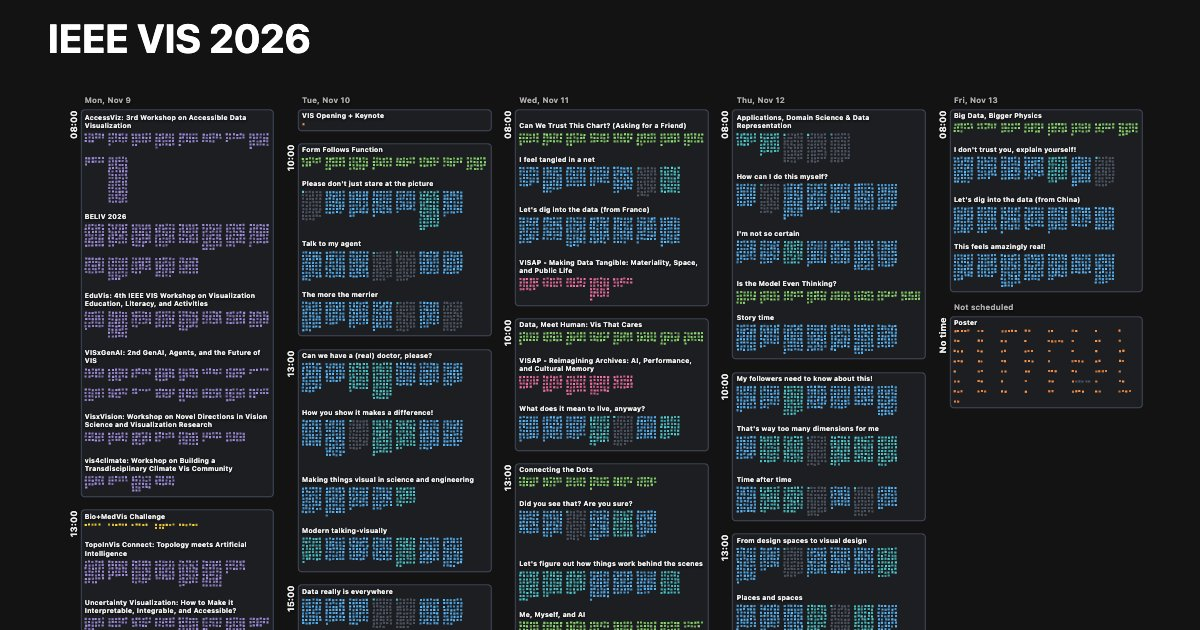
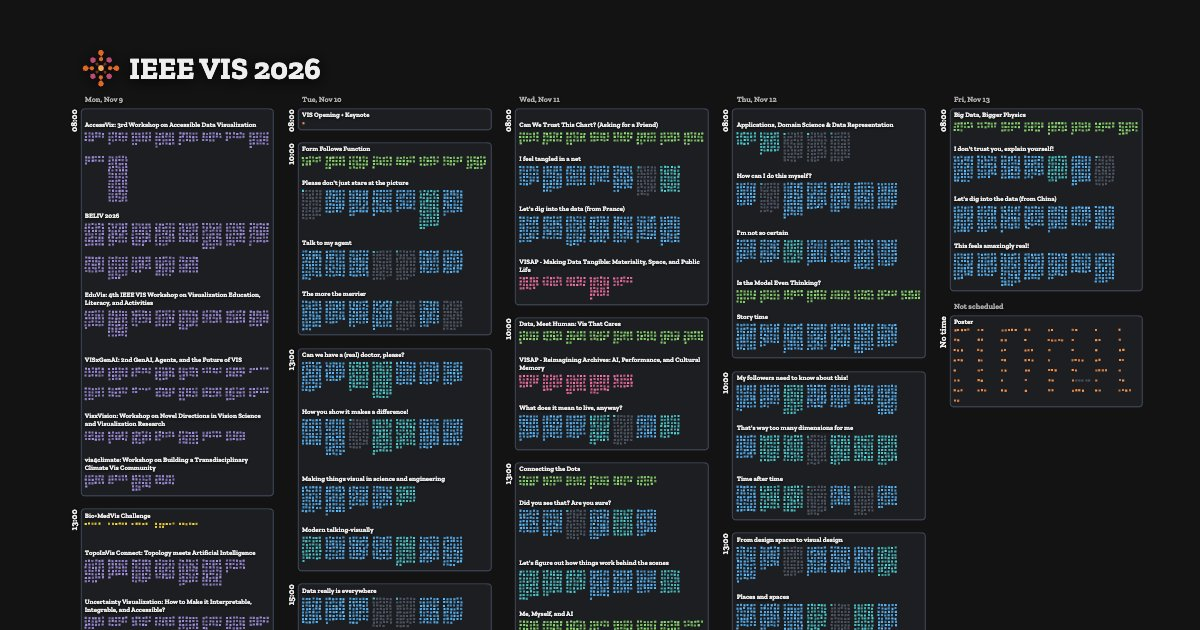
VIS map: a title above the days, in IEEE VIS's own fonts
The map is titled with IEEE VIS's icon and "IEEE VIS 2026", painted on the
map above the days, and the share card shows it in place of a title of its
own. The page opens with room above for the legend, which hid the title and
Monday's name.

The shell's fonts become two settings, for text and for headings, which a
text's stylesheet may set; VIS sets Fira Sans and Zilla Slab, as its site
does. The VIS card serves the packed stand-in texts, as the other VIS
states do.

Changed region(s): [[0.0308, 0.0302, 0.9558, 1.0], [0.8942, 0.573, 0.925, 0.6333], [0.8325, 0.573, 0.8633, 0.6032]]

diff --git a/test/layout/shareCards.spec.ts b/test/layout/shareCards.spec.ts
@@ -3,7 +3,7 @@
 import { readFileSync, writeFileSync } from 'node:fs';
 import { test } from '../browser/fakeMap.ts';
 import { desktopOnly, hold, openMap } from '../browser/page.ts';
-import { standInTexts } from './visTexts.ts';
+import { standInTextsFile } from './visTexts.ts';
 import { computeLayout as computeTanakhLayout, getLayoutBounds } from '@torahmap/tanakh/layout.ts';
 import { computeLayout as computeVisLayout, programBox } from '@torahmap/ieeevis/layout.ts';
 import { IEEEVIS_PATH } from '@torahmap/ieeevis/page.ts';
@@ -14,18 +14,14 @@ import {
 } from '@torahmap/ieeevis/data.ts';
 
 const CARD = { width: 1200, height: 630 };
-/** Screen pixels left clear around the map, and above it for a title. */
+/** Screen pixels left clear around the map. */
 const MARGIN = 48;
-const TITLE_BAND = 96;
 
 // The canvas leaves room for the panel and measures itself once at startup,
 // so the panel has to be gone before the page loads, not after.
 const HIDE_UI =
   '<style>#panel,#menu-toggle,#map-legend,#zoom-controls,#popup{display:none!important}' +
   ':root{--map-left:0px!important}#canvas{width:100vw!important;height:100vh!important}</style>';
-
-const titleHtml = (text: string): string =>
-  `<div style="position:fixed;left:${MARGIN}px;top:14px;z-index:9;color:#fff;font:700 40px system-ui,sans-serif">${text}</div>`;
 
 const readJson = (file: string): unknown => JSON.parse(readFileSync(`public/data/${file}`, 'utf8'));
 
@@ -51,16 +47,14 @@ test.describe('share cards', () => {
 
   const draw = async (
     page: import('@playwright/test').Page,
-    { path, link, title, out }: { path: string; link: string; title?: string; out: string },
+    { path, link, out }: { path: string; link: string; out: string },
   ) => {
     desktopOnly('the card is drawn once, at its own size');
     await page.route(
       (url) => url.pathname === path,
       async (route) => {
         const response = await route.fetch();
-        const html = (await response.text())
-          .replace('</head>', HIDE_UI + '</head>')
-          .replace('</body>', (title ? titleHtml(title) : '') + '</body>');
+        const html = (await response.text()).replace('</head>', HIDE_UI + '</head>');
         await route.fulfill({ response, body: html });
       },
     );
@@ -79,12 +73,11 @@ test.describe('share cards', () => {
   });
 
   test('the VIS card shows the days across and the top of each', async ({ page }) => {
-    (await hold(page, [VIS_TEXTS], JSON.stringify(standInTexts())))();
+    (await hold(page, [VIS_TEXTS], standInTextsFile()))();
     const laid = computeVisLayout(readJson(VIS_STRUCTURE) as never);
     await draw(page, {
       path: IEEEVIS_PATH,
-      link: `overlay=kinds&${cardCamera(programBox(laid), TITLE_BAND, false)}`,
-      title: 'IEEE VIS 2026',
+      link: `overlay=kinds&${cardCamera(programBox(laid), MARGIN, false)}`,
       out: 'public/ieeevis-og-image.jpg',
     });
   });

diff --git a/apps/ieeevis/src/text.ts b/apps/ieeevis/src/text.ts
@@ -18,6 +18,8 @@ import { computeLayout, DAY_LABEL_SIZE, programBox, TIME_STRIP, type PieceItem }
 import { KINDS_ID } from './overlays/kinds.ts';
 import { VIS_OVERLAYS, visOverlayParams } from './overlays/index.ts';
 import { configureSearch, squareBody, visSearch } from './search.ts';
+import { createMapTitle } from './mapTitle.ts';
+import './ieeevis.css';
 import { ieeevisSite } from './site.ts';
 
 const PANEL_TINT = [150, 170, 220] as const;
@@ -26,6 +28,8 @@ const PANEL_EDGE_OPACITY = 0.3;
 const SESSION_TAB = { fontSize: 12, above: 20, inset: 0, minPx: 3.5, wrap: true };
 // A slot's time keeps a size a reader can make out however far the map is zoomed out.
 const TIME_LABEL = { fontSize: DAY_LABEL_SIZE.fontSize, minPx: 9, gap: 4 };
+// Screen pixels clear above the program as it opens: the legend reaches 58 down on a wide screen.
+const LEGEND_CLEARANCE = 70;
 const NO_TEXT = 'No text yet.';
 
 const WHOLE_MAP: Story = {
@@ -69,7 +73,14 @@ export const ieeevisText: MapText<PieceItem, TermSettings> = {
       items: laid.items,
 
       startCamera(viewport) {
-        return cameraToFit(programBox(laid), viewport.width, viewport.height, LINK_KEYS.zoom);
+        return cameraToFit(
+          programBox(laid),
+          viewport.width,
+          viewport.height,
+          LINK_KEYS.zoom,
+          undefined,
+          LEGEND_CLEARANCE,
+        );
       },
 
       baseColor,
@@ -81,7 +92,7 @@ export const ieeevisText: MapText<PieceItem, TermSettings> = {
           const time = document.createElement('div');
           time.textContent = box.time;
           time.style.cssText =
-            'position:absolute;top:0;color:#eee;font:700 1em system-ui,sans-serif;' +
+            'position:absolute;top:0;color:#eee;font:700 1em var(--heading-font);' +
             `white-space:nowrap;line-height:${SECTION_LABEL_LINE_EM}em;` +
             'text-shadow:0 1px 3px rgba(0,0,0,0.8);' +
             'transform-origin:0 0;transform:rotate(-90deg) translateX(-100%);';
@@ -91,6 +102,7 @@ export const ieeevisText: MapText<PieceItem, TermSettings> = {
         const panelLayer = document.createElement('div');
         panelLayer.append(...panels.map((p) => p.el));
         container.appendChild(panelLayer);
+        const moveTitle = createMapTitle(WHOLE_MAP.data.title, container);
         const moveLabels = createMapLabels(laid.books, container, {
           sectionNames: Object.fromEntries(
             laid.books.map((b) => [b.section, { he: '', en: b.section }]),
@@ -117,6 +129,7 @@ export const ieeevisText: MapText<PieceItem, TermSettings> = {
             time.style.opacity = fits ? '' : '0';
           }
           moveLabels(pan, zoom);
+          moveTitle(pan, zoom);
         };
       },
 

diff --git a/apps/ieeevis/src/mapTitle.ts b/apps/ieeevis/src/mapTitle.ts
@@ -1,0 +1,46 @@
+// The map's title, painted on the map above the days: it grows and moves exactly as the squares do.
+
+import { TITLE_CORNER, TITLE_HEIGHT } from './layout.ts';
+import iconUrl from './vis2026_icon.svg?url';
+
+const SVG = 'http://www.w3.org/2000/svg';
+
+function svgElement(name: string, attributes: Record<string, string>): SVGElement {
+  const el = document.createElementNS(SVG, name);
+  for (const [key, value] of Object.entries(attributes)) el.setAttribute(key, value);
+  return el;
+}
+
+/** Draws `name` beside IEEE VIS's icon into `container`; the function returned moves it with the map. */
+export function createMapTitle(
+  name: string,
+  container: HTMLElement,
+): (offset: { x: number; y: number }, zoom: number) => void {
+  // The viewBox holds the icon and sets the scale; the name runs on past it.
+  const svg = svgElement('svg', {
+    viewBox: '0 0 100 100',
+    overflow: 'visible',
+    role: 'img',
+    'aria-label': name,
+  });
+  svg.style.cssText = 'position:absolute;filter:drop-shadow(0 2px 7px #000)';
+  const text = svgElement('text', {
+    x: '122',
+    y: '76',
+    'font-size': '76',
+    'font-weight': '700',
+    fill: '#eee',
+  });
+  text.style.fontFamily = 'var(--heading-font)';
+  text.textContent = name;
+  svg.append(svgElement('image', { href: iconUrl, width: '100', height: '100' }), text);
+  container.append(svg);
+
+  return (offset, zoom) => {
+    const size = String(TITLE_HEIGHT * zoom);
+    svg.setAttribute('width', size);
+    svg.setAttribute('height', size);
+    svg.style.left = `${(TITLE_CORNER.x + offset.x) * zoom}px`;
+    svg.style.top = `${(TITLE_CORNER.y + offset.y) * zoom}px`;
+  };
+}

diff --git a/packages/engine/src/camera.ts b/packages/engine/src/camera.ts
@@ -115,7 +115,7 @@ export const FIT_MARGIN = 16;
 
 /**
  * The camera that centres `box` on a `width` × `height` canvas, at the largest
- * zoom that fits it inside the margins, unless `zoom` is given.
+ * zoom that fits it inside the margins, unless `zoom` is given, with `top` pixels clear above it.
  */
 export function cameraToFit(
   box: WorldBox,
@@ -123,15 +123,16 @@ export function cameraToFit(
   height: number,
   range: ZoomRange,
   zoom?: number,
+  top = LABEL_MARGIN,
 ): Camera {
   const boxWidth = box.maxX - box.minX;
   const boxHeight = box.maxY - box.minY;
   const fitted = Math.min(
     (width - 2 * FIT_MARGIN) / boxWidth,
-    (height - FIT_MARGIN - LABEL_MARGIN) / boxHeight,
+    (height - FIT_MARGIN - top) / boxHeight,
   );
   const z = clampZoom(zoom ?? fitted, range);
-  const centreY = LABEL_MARGIN + (height - FIT_MARGIN - LABEL_MARGIN) / 2;
+  const centreY = top + (height - FIT_MARGIN - top) / 2;
   return {
     x: box.minX + boxWidth / 2,
     y: box.minY + boxHeight / 2 - (centreY - height / 2) / z,

diff --git a/apps/ieeevis/src/layout.ts b/apps/ieeevis/src/layout.ts
@@ -65,11 +65,19 @@ const nameLines = (name: string): number => Math.max(1, Math.ceil(name.length / 
 
 export const DAY_LABEL_SIZE = { fontSize: 14, gapEm: 0.5 };
 
-/** The whole program with its day labels, time strip and panels' padding: the box the map opens fitted to. */
+// The map's title stands this tall above the days' names, this far clear of them.
+export const TITLE_HEIGHT = 12 * SQUARE_SIZE;
+const TITLE_GAP = 2 * SQUARE_SIZE;
+export const TITLE_CORNER = {
+  x: -PANEL_PAD,
+  y: -sectionLabelReach(DAY_LABEL_SIZE) - TITLE_GAP - TITLE_HEIGHT,
+};
+
+/** The whole program with its title, day labels, time strip and panels' padding: the box the map opens fitted to. */
 export function programBox({ bounds }: Layout) {
   return {
     minX: -PANEL_PAD - TIME_STRIP,
-    minY: -sectionLabelReach(DAY_LABEL_SIZE),
+    minY: TITLE_CORNER.y,
     maxX: bounds.width + PANEL_PAD,
     maxY: bounds.height + PANEL_PAD,
   };

diff --git a/packages/shell/src/mapLabels.ts b/packages/shell/src/mapLabels.ts
@@ -138,7 +138,7 @@ function bookLabel(book: BookBox): HTMLDivElement {
   const enSpan = document.createElement('span');
   enSpan.className = 'book-label-en';
   enSpan.textContent = ` ${book.name}`;
-  enSpan.style.cssText = 'font-family:system-ui,sans-serif;';
+  enSpan.style.fontFamily = 'var(--heading-font)';
   label.appendChild(enSpan);
   return label;
 }
@@ -165,7 +165,7 @@ function sectionLabel(
   label.appendChild(hebrewSpan(name?.he ?? section, 'section-label-he'));
   const enSpan = document.createElement('span');
   enSpan.className = 'section-label-en';
-  enSpan.style.fontFamily = 'system-ui,sans-serif';
+  enSpan.style.fontFamily = 'var(--heading-font)';
   enSpan.textContent = ` ${name?.en ?? ''}`;
   label.appendChild(enSpan);
   return label;

diff --git a/test/layout/visTexts.ts b/test/layout/visTexts.ts
@@ -4,6 +4,7 @@ import { readFileSync } from 'node:fs';
 import type { Structure } from '@torahmap/ieeevis/data.ts';
 import { computeLayout } from '@torahmap/ieeevis/layout.ts';
 import { isPlaceholder } from '@torahmap/ieeevis/baseColor.ts';
+import { pack } from '../../scripts/ieeevis/pack.ts';
 
 const STRUCTURE = new URL('../../public/data/ieeevis/structure.json', import.meta.url);
 const WORDS = ['chart', 'colour', 'axis', 'glyph', 'mark', 'scale', 'layout', 'filter', 'trend'];
@@ -47,3 +48,6 @@ export function standInTexts(): Record<string, string> {
   });
   return texts;
 }
+
+/** The stand-in texts as the page reads them, packed. */
+export const standInTextsFile = (): Buffer => Buffer.from(pack(JSON.stringify(standInTexts())));

diff --git a/packages/shell/src/styles/frame.css b/packages/shell/src/styles/frame.css
@@ -55,8 +55,14 @@
   inset: 0;
 }
 
+/* A text's own stylesheet may set these. */
+:root {
+  --text-font: system-ui, sans-serif;
+  --heading-font: system-ui, sans-serif;
+}
+
 body {
-  font-family: system-ui, sans-serif;
+  font-family: var(--text-font);
 }
 
 #panel {
@@ -190,9 +196,7 @@ body[data-mode='explore'] #tools {
   position: absolute;
   inset: 0;
   padding: 0 8px;
-  font:
-    12px/20px system-ui,
-    sans-serif;
+  font: 12px/20px var(--heading-font);
   color: #ddd;
   white-space: nowrap;
   overflow: hidden;
@@ -229,6 +233,7 @@ body[data-menu] #panel-body {
 
 .column-title {
   margin: 0;
+  font-family: var(--heading-font);
   font-size: 16px;
   font-weight: 600;
 }

diff --git a/test/layout/ieeevis.spec.ts b/test/layout/ieeevis.spec.ts
@@ -4,12 +4,11 @@ import { test } from '../browser/fakeMap.ts';
 import { hold, openMap } from '../browser/page.ts';
 import { IEEEVIS_STATES } from './app.ts';
 import { testPanelsOpen, testStates } from './check.ts';
-import { standInTexts } from './visTexts.ts';
-import { pack } from '../../scripts/ieeevis/pack.ts';
+import { standInTextsFile } from './visTexts.ts';
 import { IEEEVIS_PATH } from '@torahmap/ieeevis/page.ts';
 import { TEXTS_FILE } from '@torahmap/ieeevis/data.ts';
 
-const texts = Buffer.from(pack(JSON.stringify(standInTexts())));
+const texts = standInTextsFile();
 
 test.beforeEach(async ({ page }) => {
   (await hold(page, [TEXTS_FILE], texts))();

diff --git a/packages/engine/test/camera.test.ts b/packages/engine/test/camera.test.ts
@@ -69,6 +69,13 @@ describe('cameraToFit', () => {
     expect(c.zoom).toBe(0.5);
     expect(onScreen(300, 150, c, 832, 1000).x).toBeCloseTo(416);
   });
+
+  it('keeps a given room clear above a tall box', () => {
+    const c = cameraToFit(box, 4000, 286, ZOOM, undefined, 70);
+    expect(c.zoom).toBeCloseTo(1);
+    expect(onScreen(box.minX, box.minY, c, 4000, 286).y).toBeCloseTo(70);
+    expect(onScreen(box.maxX, box.maxY, c, 4000, 286).y).toBeCloseTo(270);
+  });
 });
 
 describe('map and screen', () => {

diff --git a/apps/ieeevis/src/ieeevis.css b/apps/ieeevis/src/ieeevis.css
@@ -1,0 +1,7 @@
+/* IEEE VIS's own faces, as its site uses them. */
+@import url('https://fonts.googleapis.com/css2?family=Fira+Sans:wght@400;600;700&family=Zilla+Slab:wght@600;700&display=swap');
+
+:root {
+  --text-font: 'Fira Sans', sans-serif;
+  --heading-font: 'Zilla Slab', serif;
+}

diff --git a/packages/shell/src/styles/popup.css b/packages/shell/src/styles/popup.css
@@ -28,6 +28,7 @@
   padding-right: 36px;
   background: rgba(255, 255, 255, 0.05);
   font-size: 14px;
+  font-family: var(--heading-font);
   font-weight: 600;
   border-bottom: 1px solid rgba(255, 255, 255, 0.1);
   position: relative;
